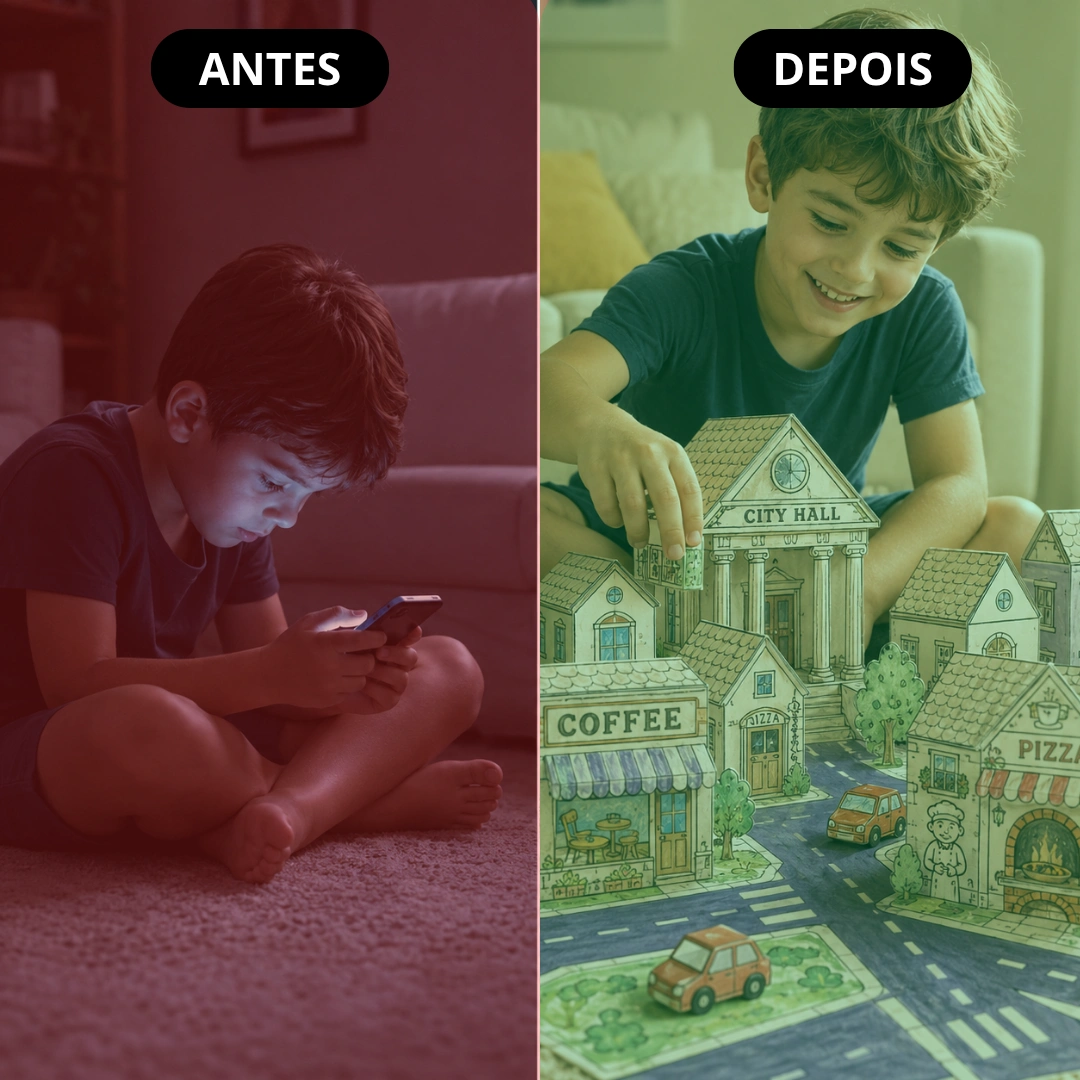
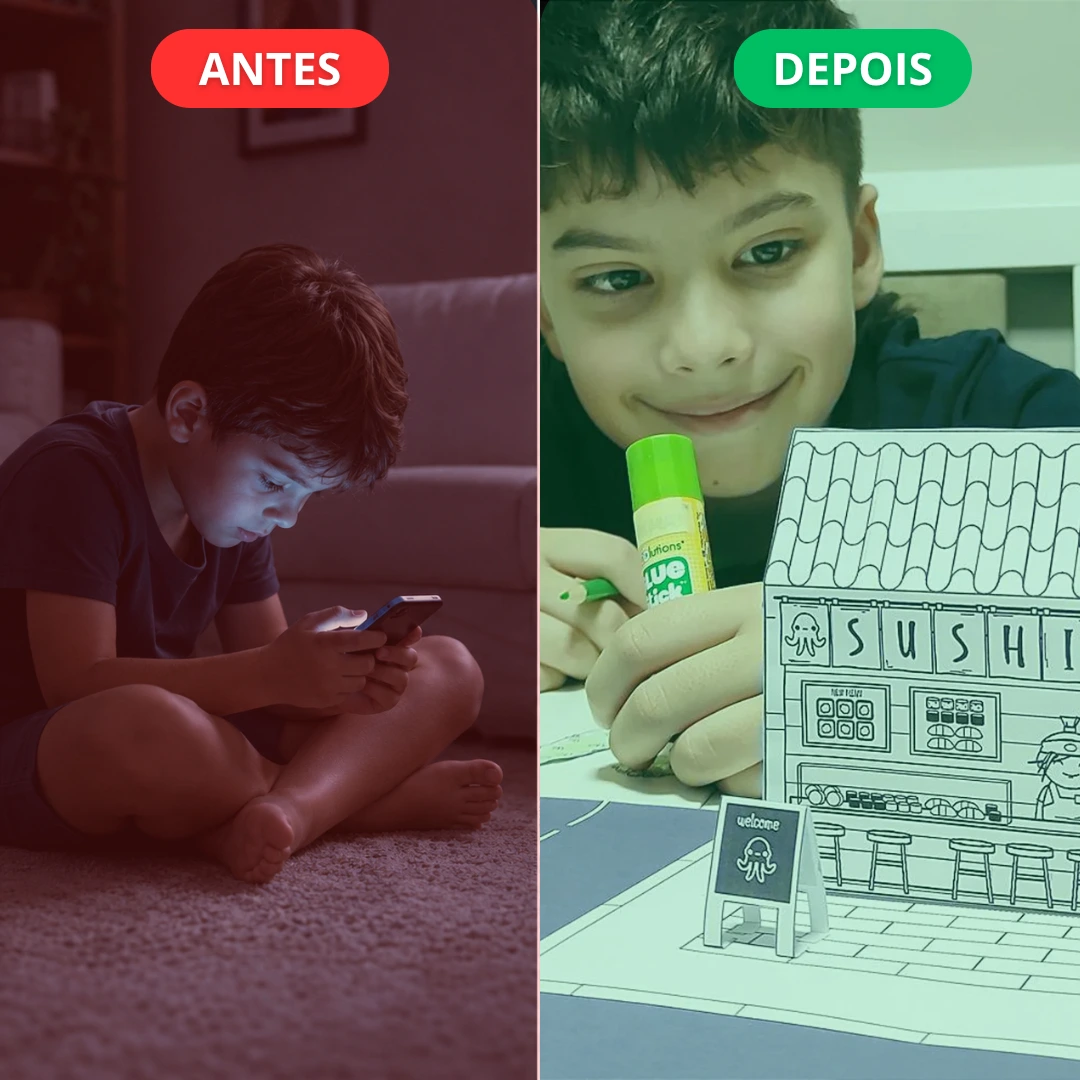
fix ajustes

diff --git a/index.html b/index.html
@@ -467,13 +467,13 @@ src="https://www.facebook.com/tr?id=2661627287587716&ev=PageView&noscript=1"
 <!-- ===== HERO ===== -->
 <header class="hero wrap">
   <span class="eyebrow">Download instantâneo</span>
-  <h1>Monte sua própria <span class="titulo-verde-2">Cidade de Papel 3D</span>, é só <span class="titulo-verde-2">imprimir e montar</span></h1>
+    <h1>Transforme folhas de papel em uma <span class="titulo-verde-2">Cidade 3D Completa</span>, pronta em 3 passos: é só <span class="titulo-verde-2">imprimir, recortar e montar</span></h1>
 
   <div class="cover-image-wrapper">
     <img src="img/capa.webp" alt="Kit Cidade de Papel 3D" class="cover-image">
   </div>
 
-  <p class="hero-subtitle">Um kit digital completo para você imprimir, recortar e montar sua própria cidade de papel em casa, sem precisar de máquina de corte.</p>
+  <p class="hero-subtitle">Uma atividade criativa e divertida que transforma qualquer momento em uma experiência de construção, imaginação e brincadeira para crianças e adultos.</p>
 
   <div class="hero-checklist-block">
     <div class="hero-checklist-row">
